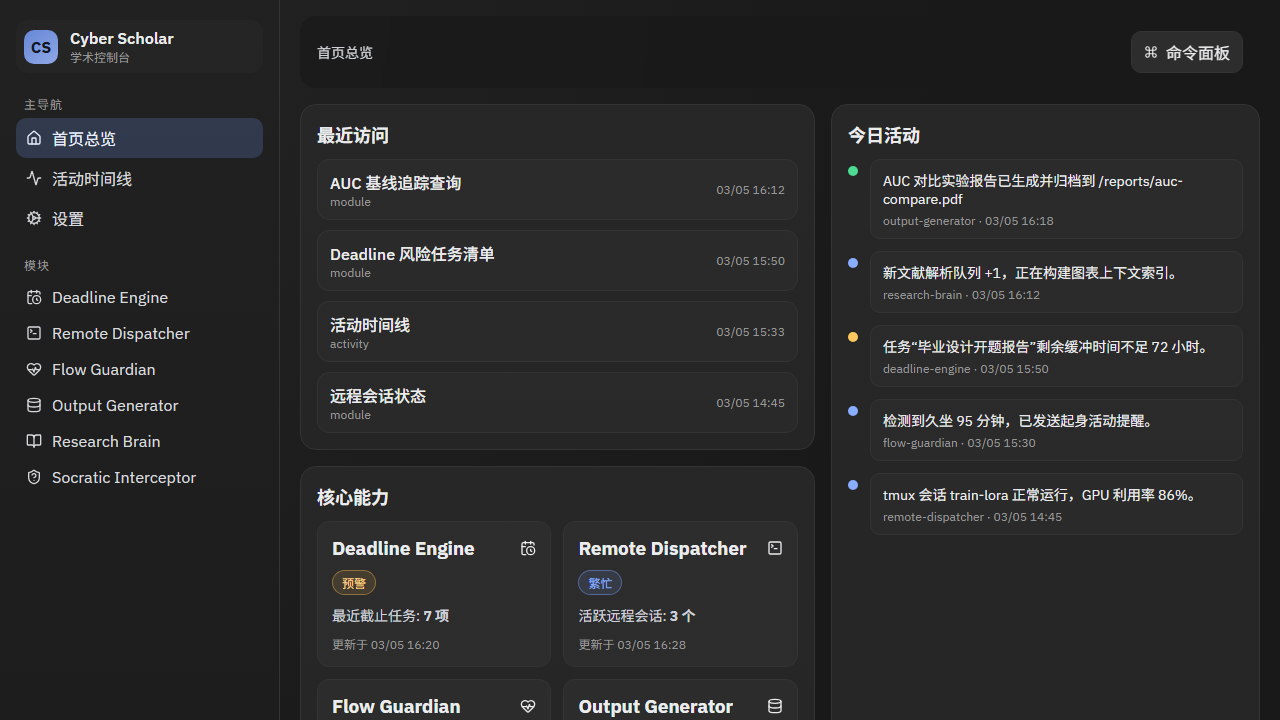
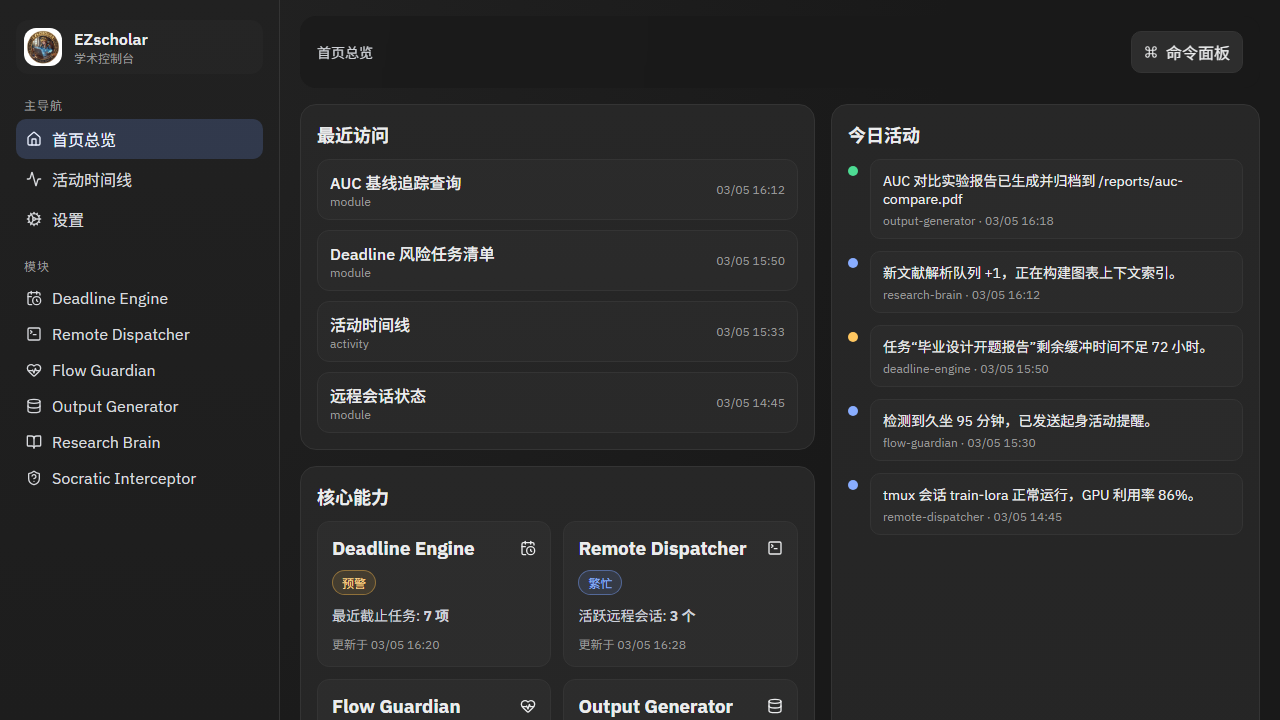
docs: remove duplicate title and refresh frontend screenshots

diff --git a/README.md b/README.md
@@ -1,7 +1,5 @@
 <div align="center">
 
-# EZscholar
-
 <img src="./docs/images/EZ_with_sch.png" alt="EZscholar Banner" width="780" />
 
 一个面向高校与科研场景的本地化「EZscholar 学术助手」，帮助你把“任务管理、远程算力、健康节律、报告产出、文献检索、启发式学习”整合到一个控制台里。
